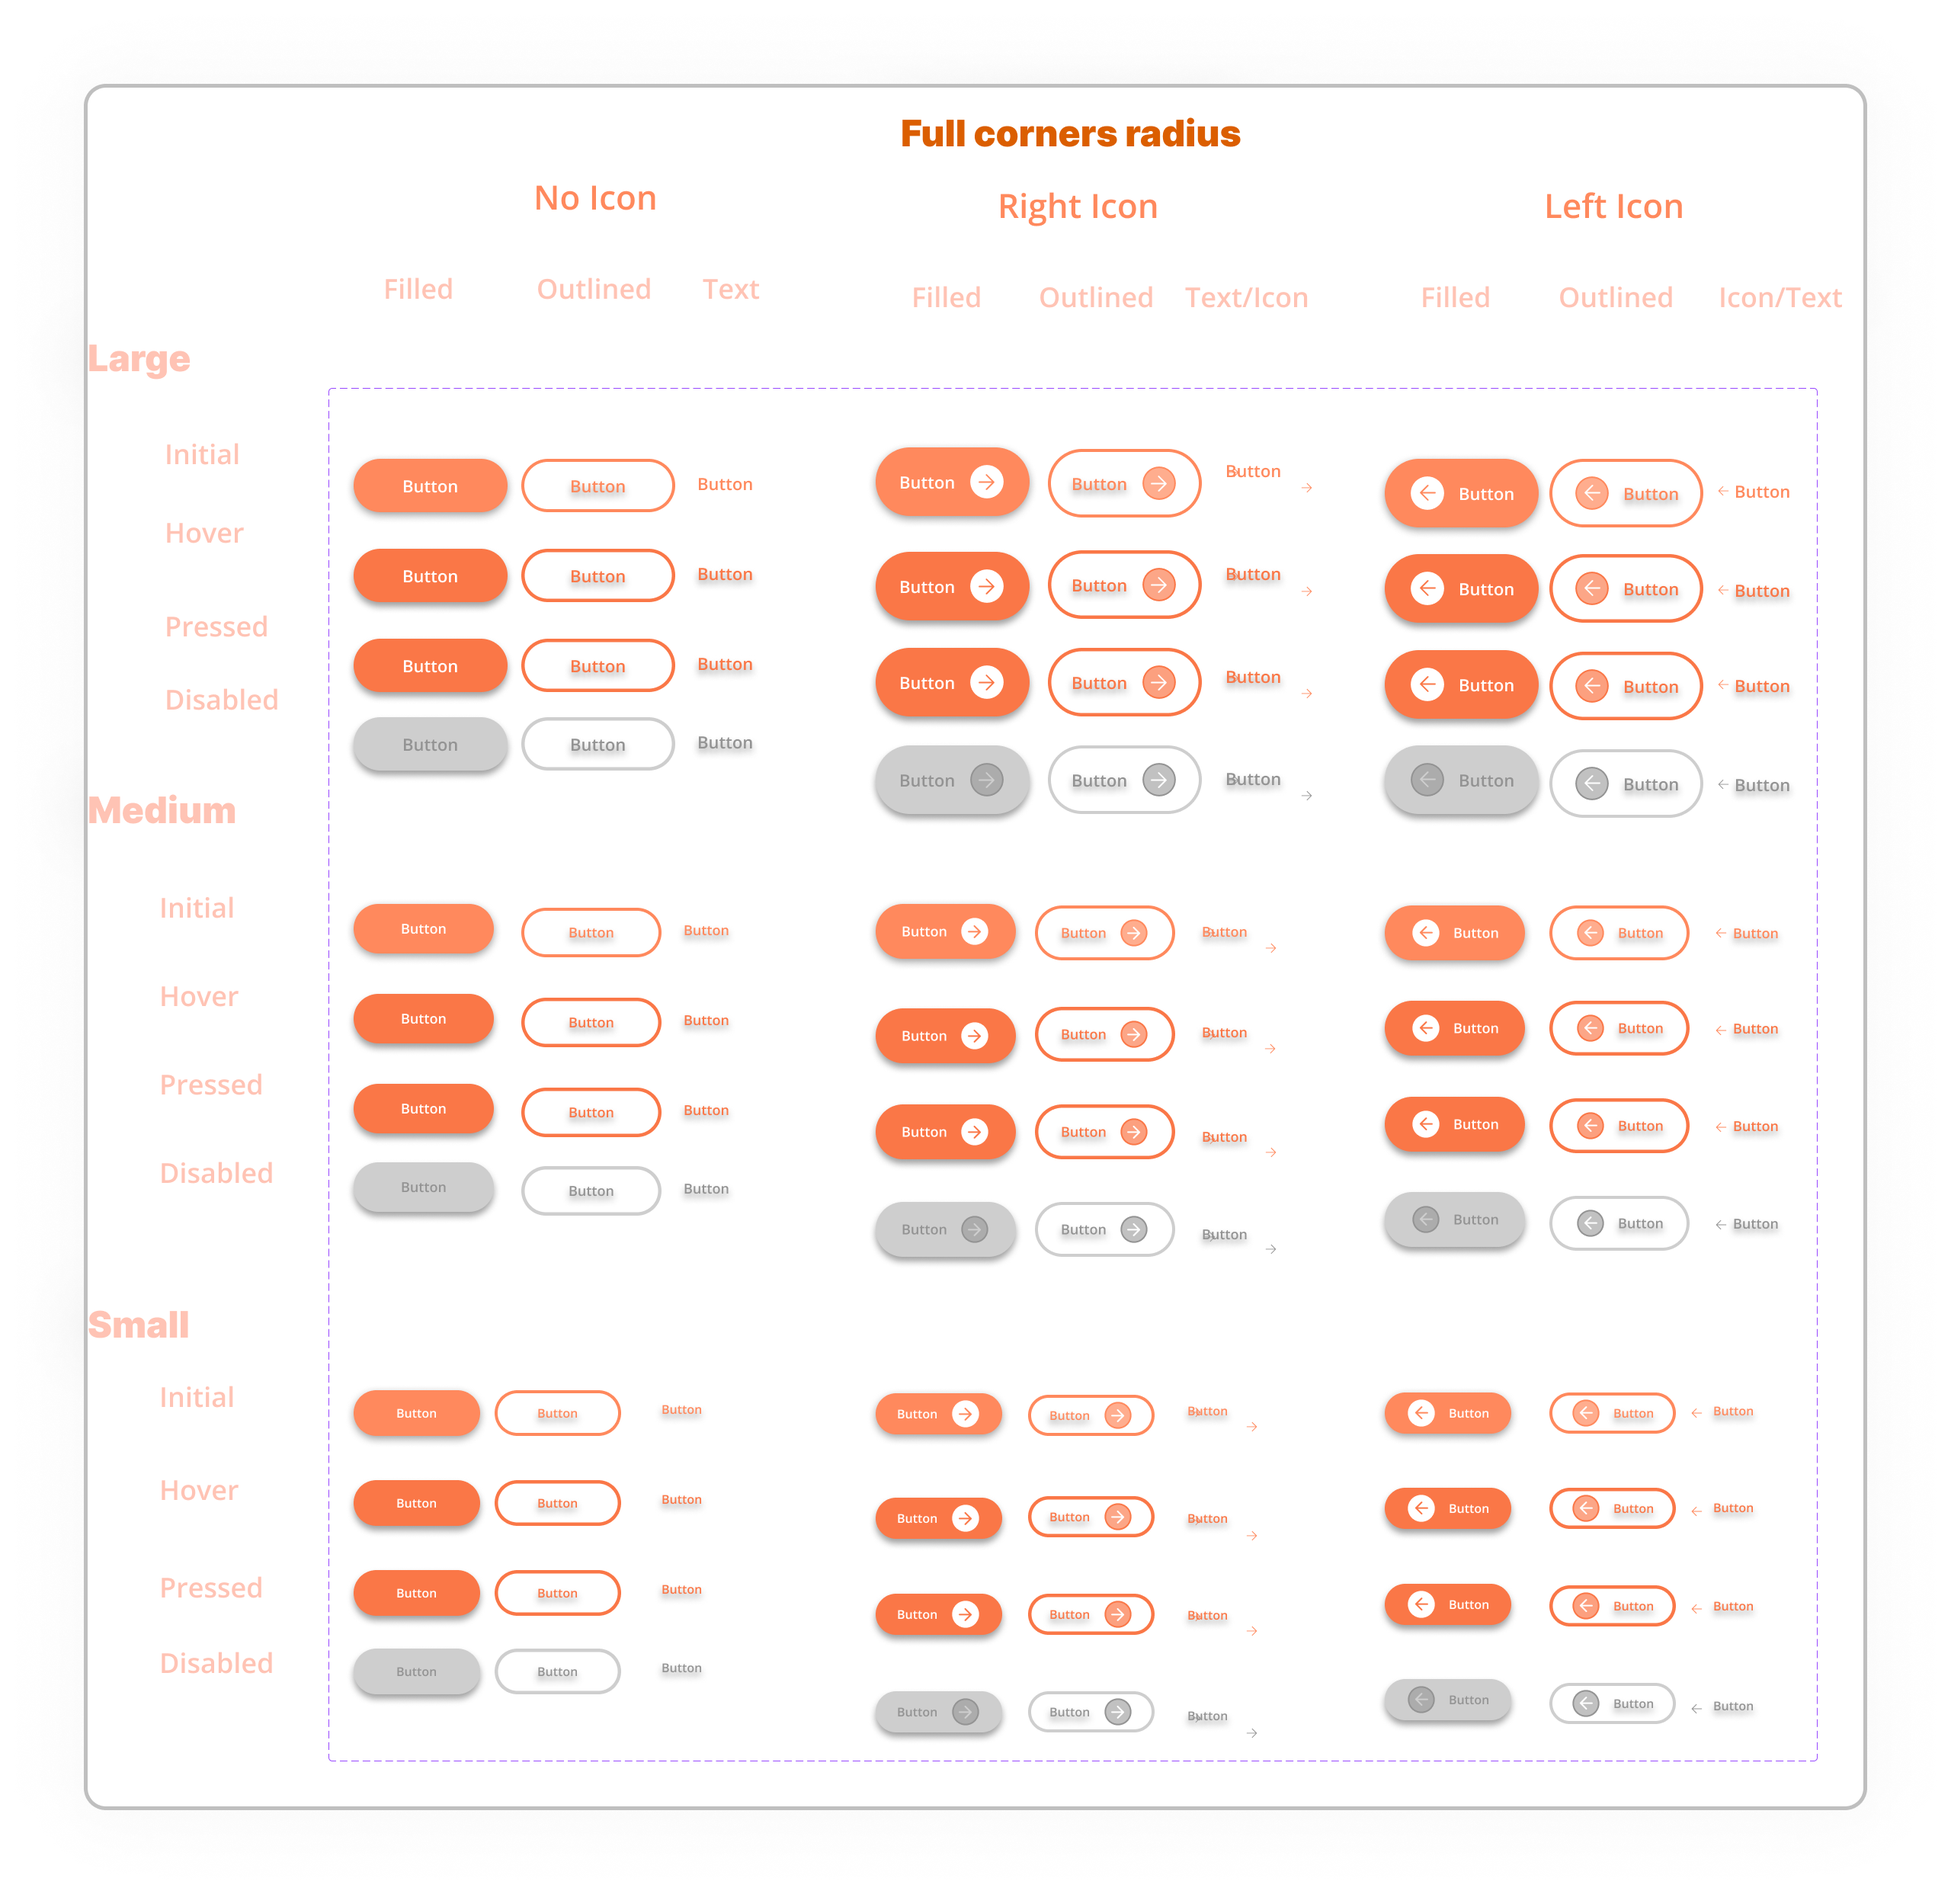
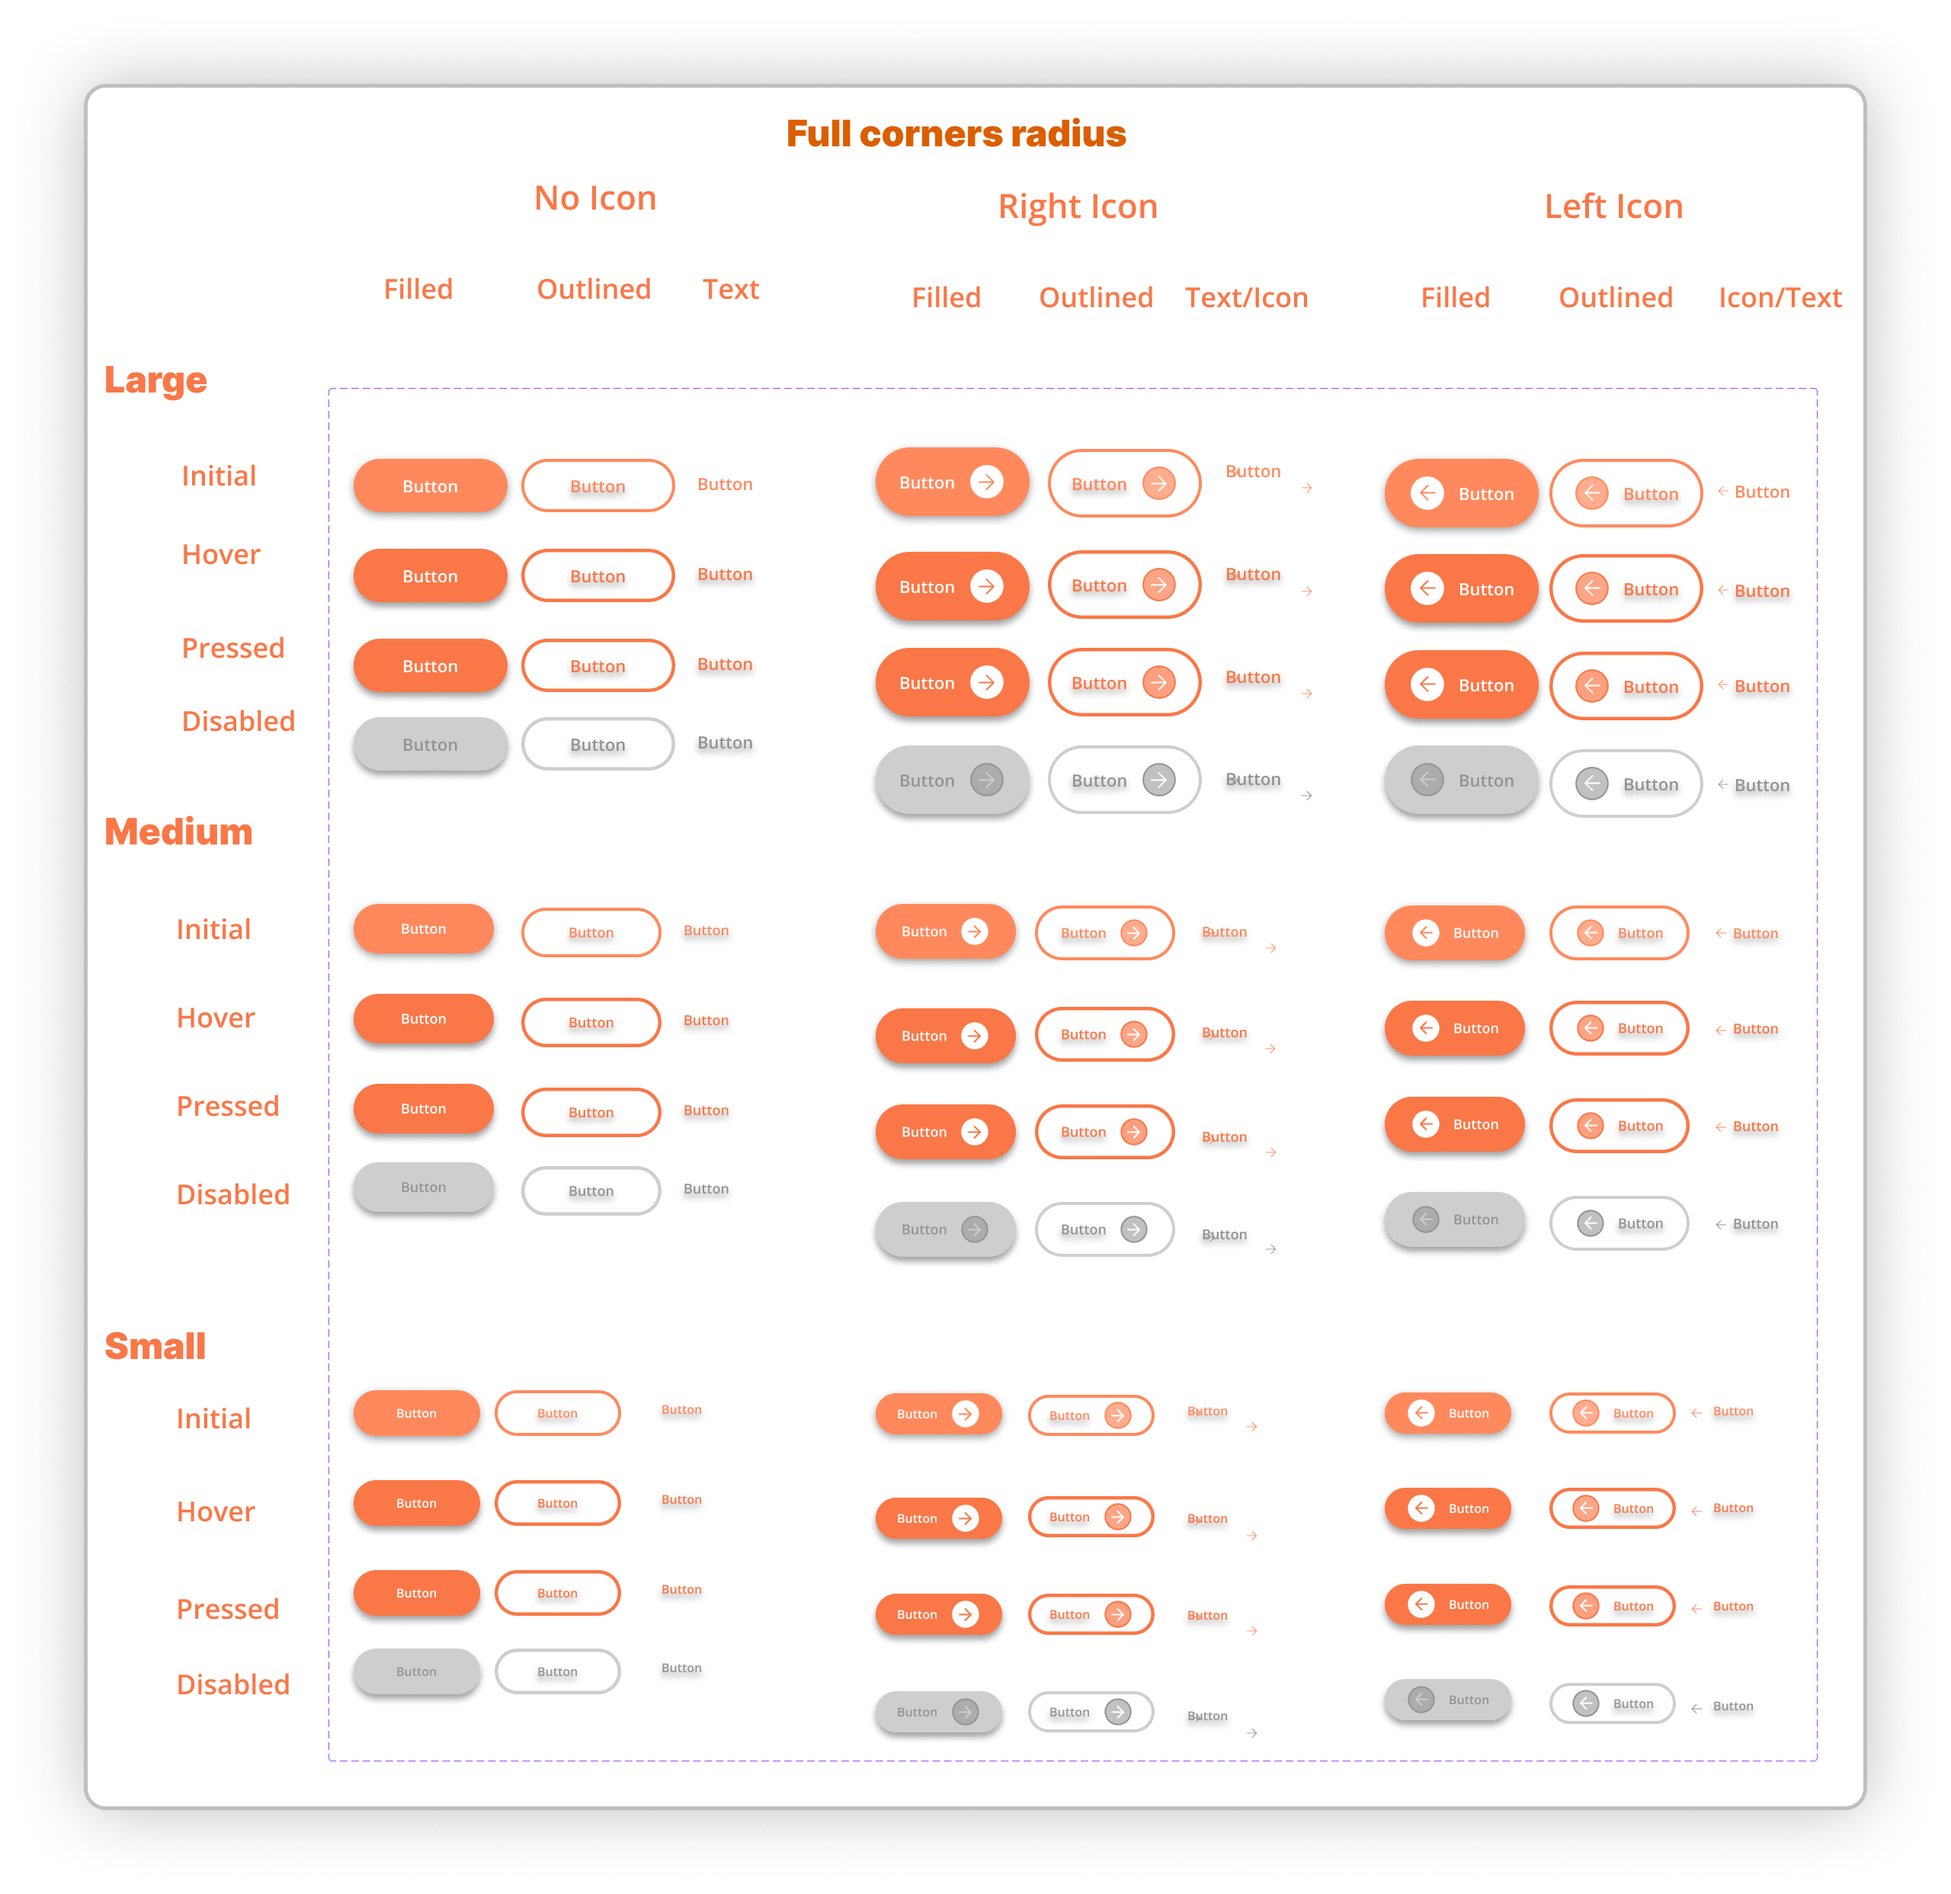
Fixed some secttion imgs in DS

diff --git a/portfolio-details-agartee-ds.html b/portfolio-details-agartee-ds.html
@@ -355,12 +355,12 @@
                 <h3>Level 1: Atoms</h3>
               </div>
             </div>
-            <h2>Buttons</h2>
+            <h2>Buttons:</h2>
             <div class="portfolio-info">
               <div class="swiper-slide footer">
-                <img src="assets/img/agartee-ds/agartee-ds-btn-styles-no-corners-radius.png" class="img-fluid"
-                  alt="Agartee Technology's Button Styles">
                 <img src="assets/img/agartee-ds/agartee-ds-btn-styles-full-corners-radius.png" class="img-fluid"
+                  alt="Agartee Technology's Button Styles">
+                <img src="assets/img/agartee-ds/agartee-ds-btn-styles-no-corners-radius.png" class="img-fluid"
                   alt="Agartee Technology's Button Styles">
               </div>
             </div>
